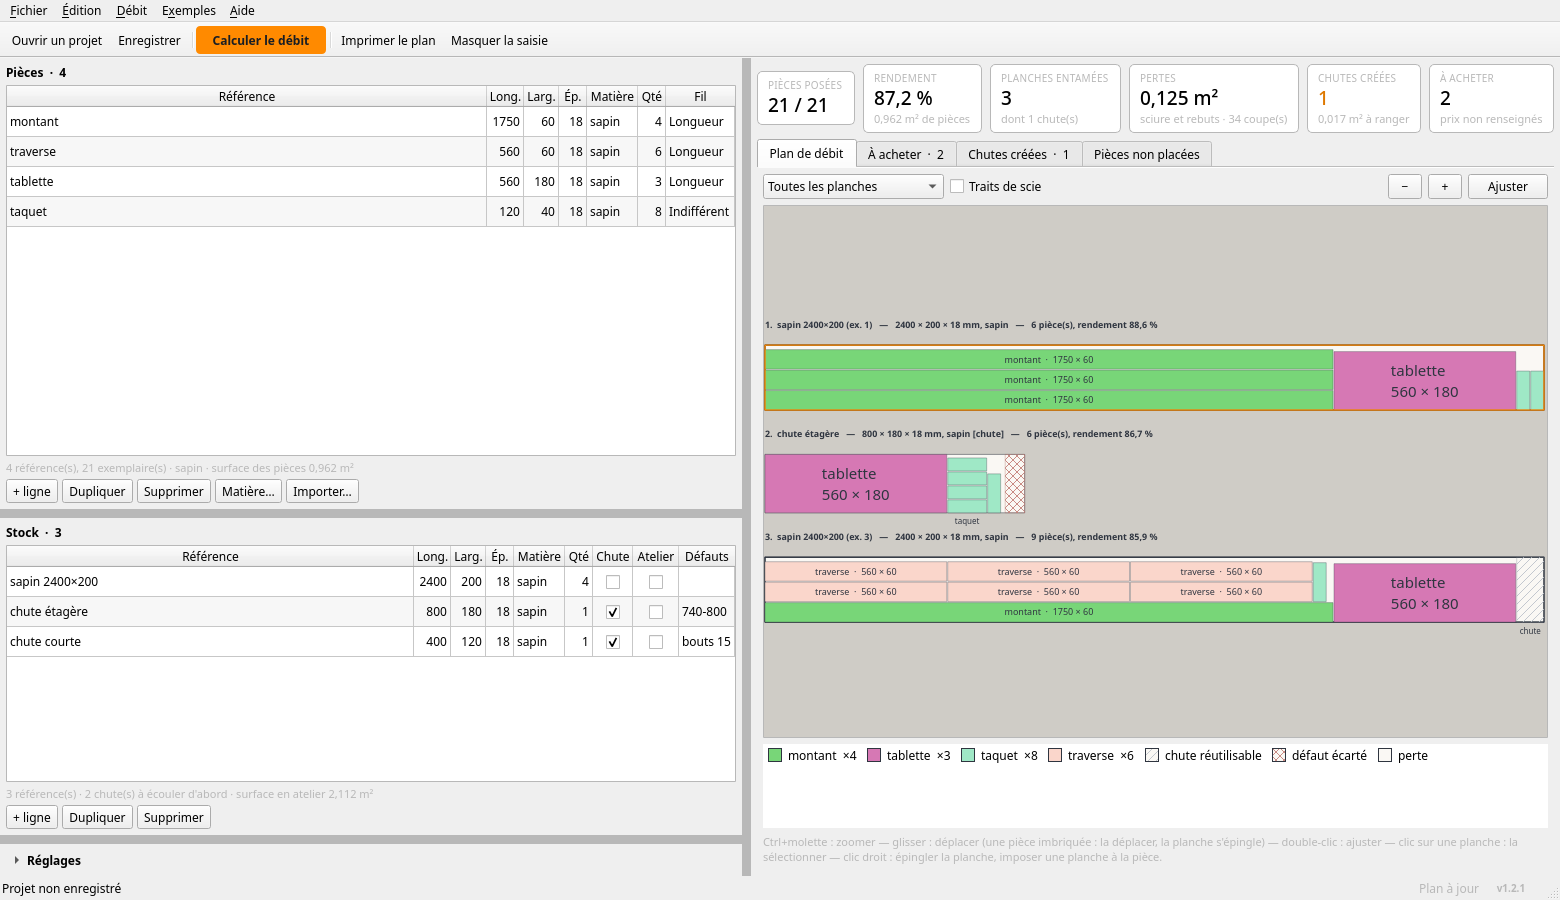
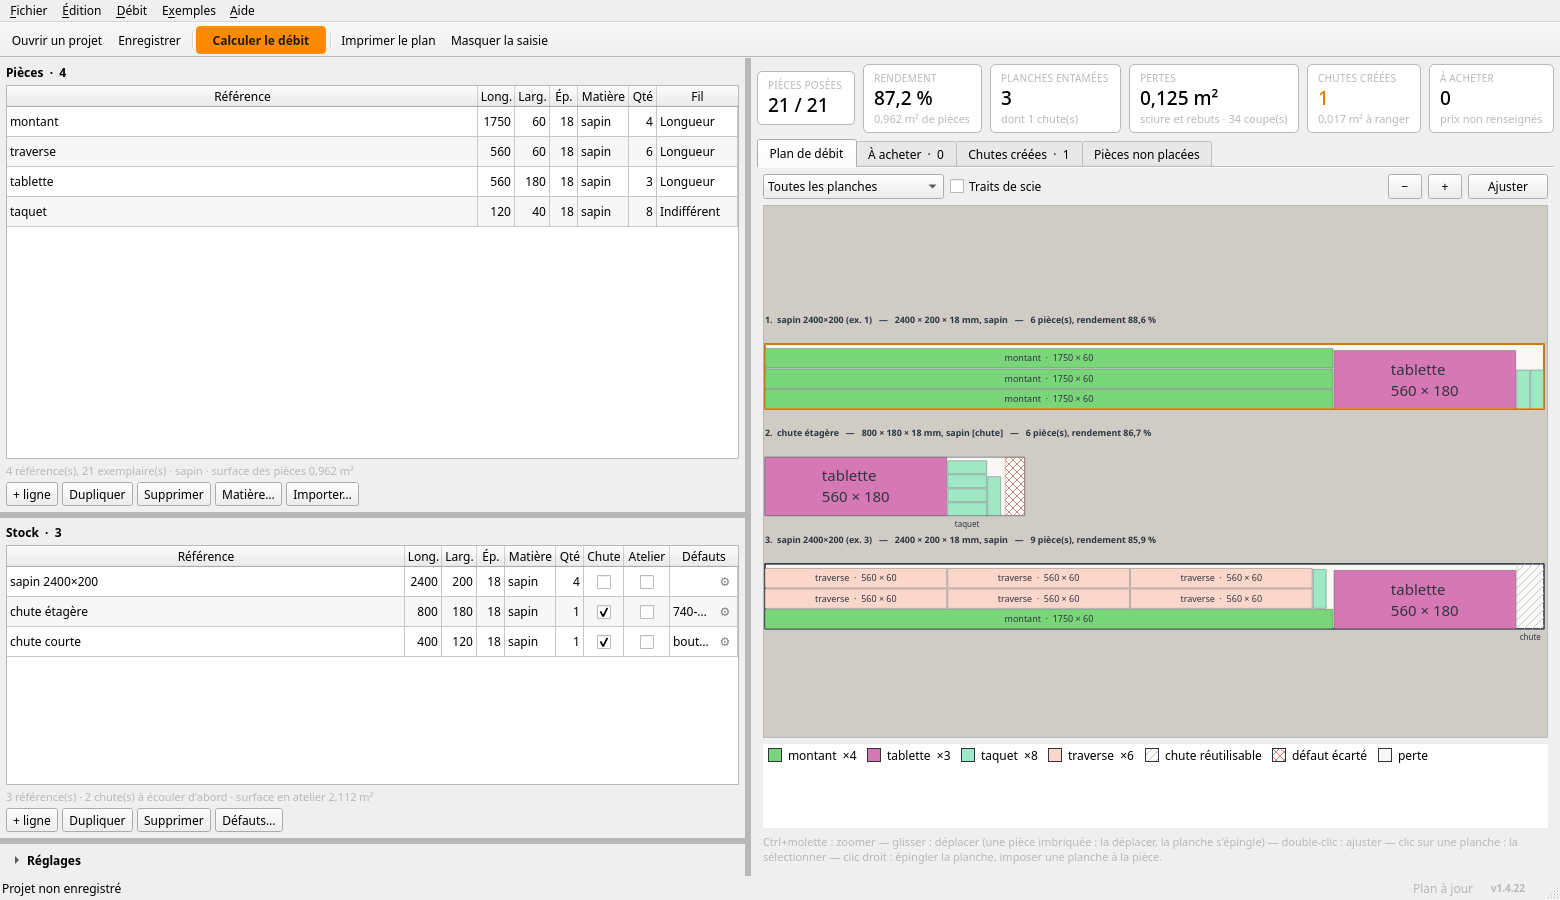
Chutier : Isoler cette planche, et captures à jour (v1.4.22)
Un nœud sur une planche d'une ligne à plusieurs exemplaires ne
concerne qu'elle — le panneau Défauts du bois le dit maintenant.
Les quatre captures sont regénérées sur la version courante (le
petit engrenage de l'assistant Défauts, entre autres, n'y était pas).

Changed region(s): [[0.0, 0.0933, 1.0, 0.8711], [0.0, 0.8711, 0.4923, 0.9333], [0.1231, 0.0933, 0.1846, 0.1244]]

diff --git a/site/contenu/chutier.html b/site/contenu/chutier.html
@@ -163,6 +163,13 @@
           construit un par un, dans un menu, pour qui ne veut pas retenir la
           syntaxe.
         </p>
+        <p>
+          Une ligne de stock compte souvent plusieurs planches identiques —
+          mais un nœud sur l'une ne l'est pas sur les deux autres.
+          <b>Isoler cette planche…</b>, dans l'assistant, sépare l'exemplaire
+          visé dans sa propre ligne sans toucher au reste, et s'y rouvre
+          aussitôt : le défaut décrit une seule planche, pas trois.
+        </p>
       </div>
     </div>
 
